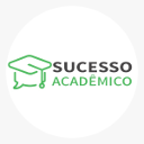
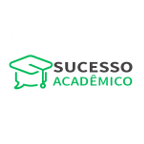
alteração das imagens e correção no template index.html

Changed region(s): [[0.0556, 0.3611, 0.9444, 0.6389]]

diff --git a/index.html b/index.html
@@ -44,7 +44,7 @@
             <select id="tipo" class="custom-select mb-3">
               <option selected>Tipo</option>
               <option id="revisao"value=0>Revisão (Bibliográfica, Literatura, Integrativa, TCC II)</option>
-              <option id="especial" value=7>Especial (Estudo de caso - Plano de negócios))</option>
+              <option id="especial" value=7>Especial (Estudo de caso - Plano de negócios)</option>
               <option id="projeto" value=350>Projeto (Pré-Projeto, Projeto de Pesquisa, TCC I)</option>
               <option id="tarefa" value=0>Tarefa (PIM, PTG e afins)</option>
             </select>
